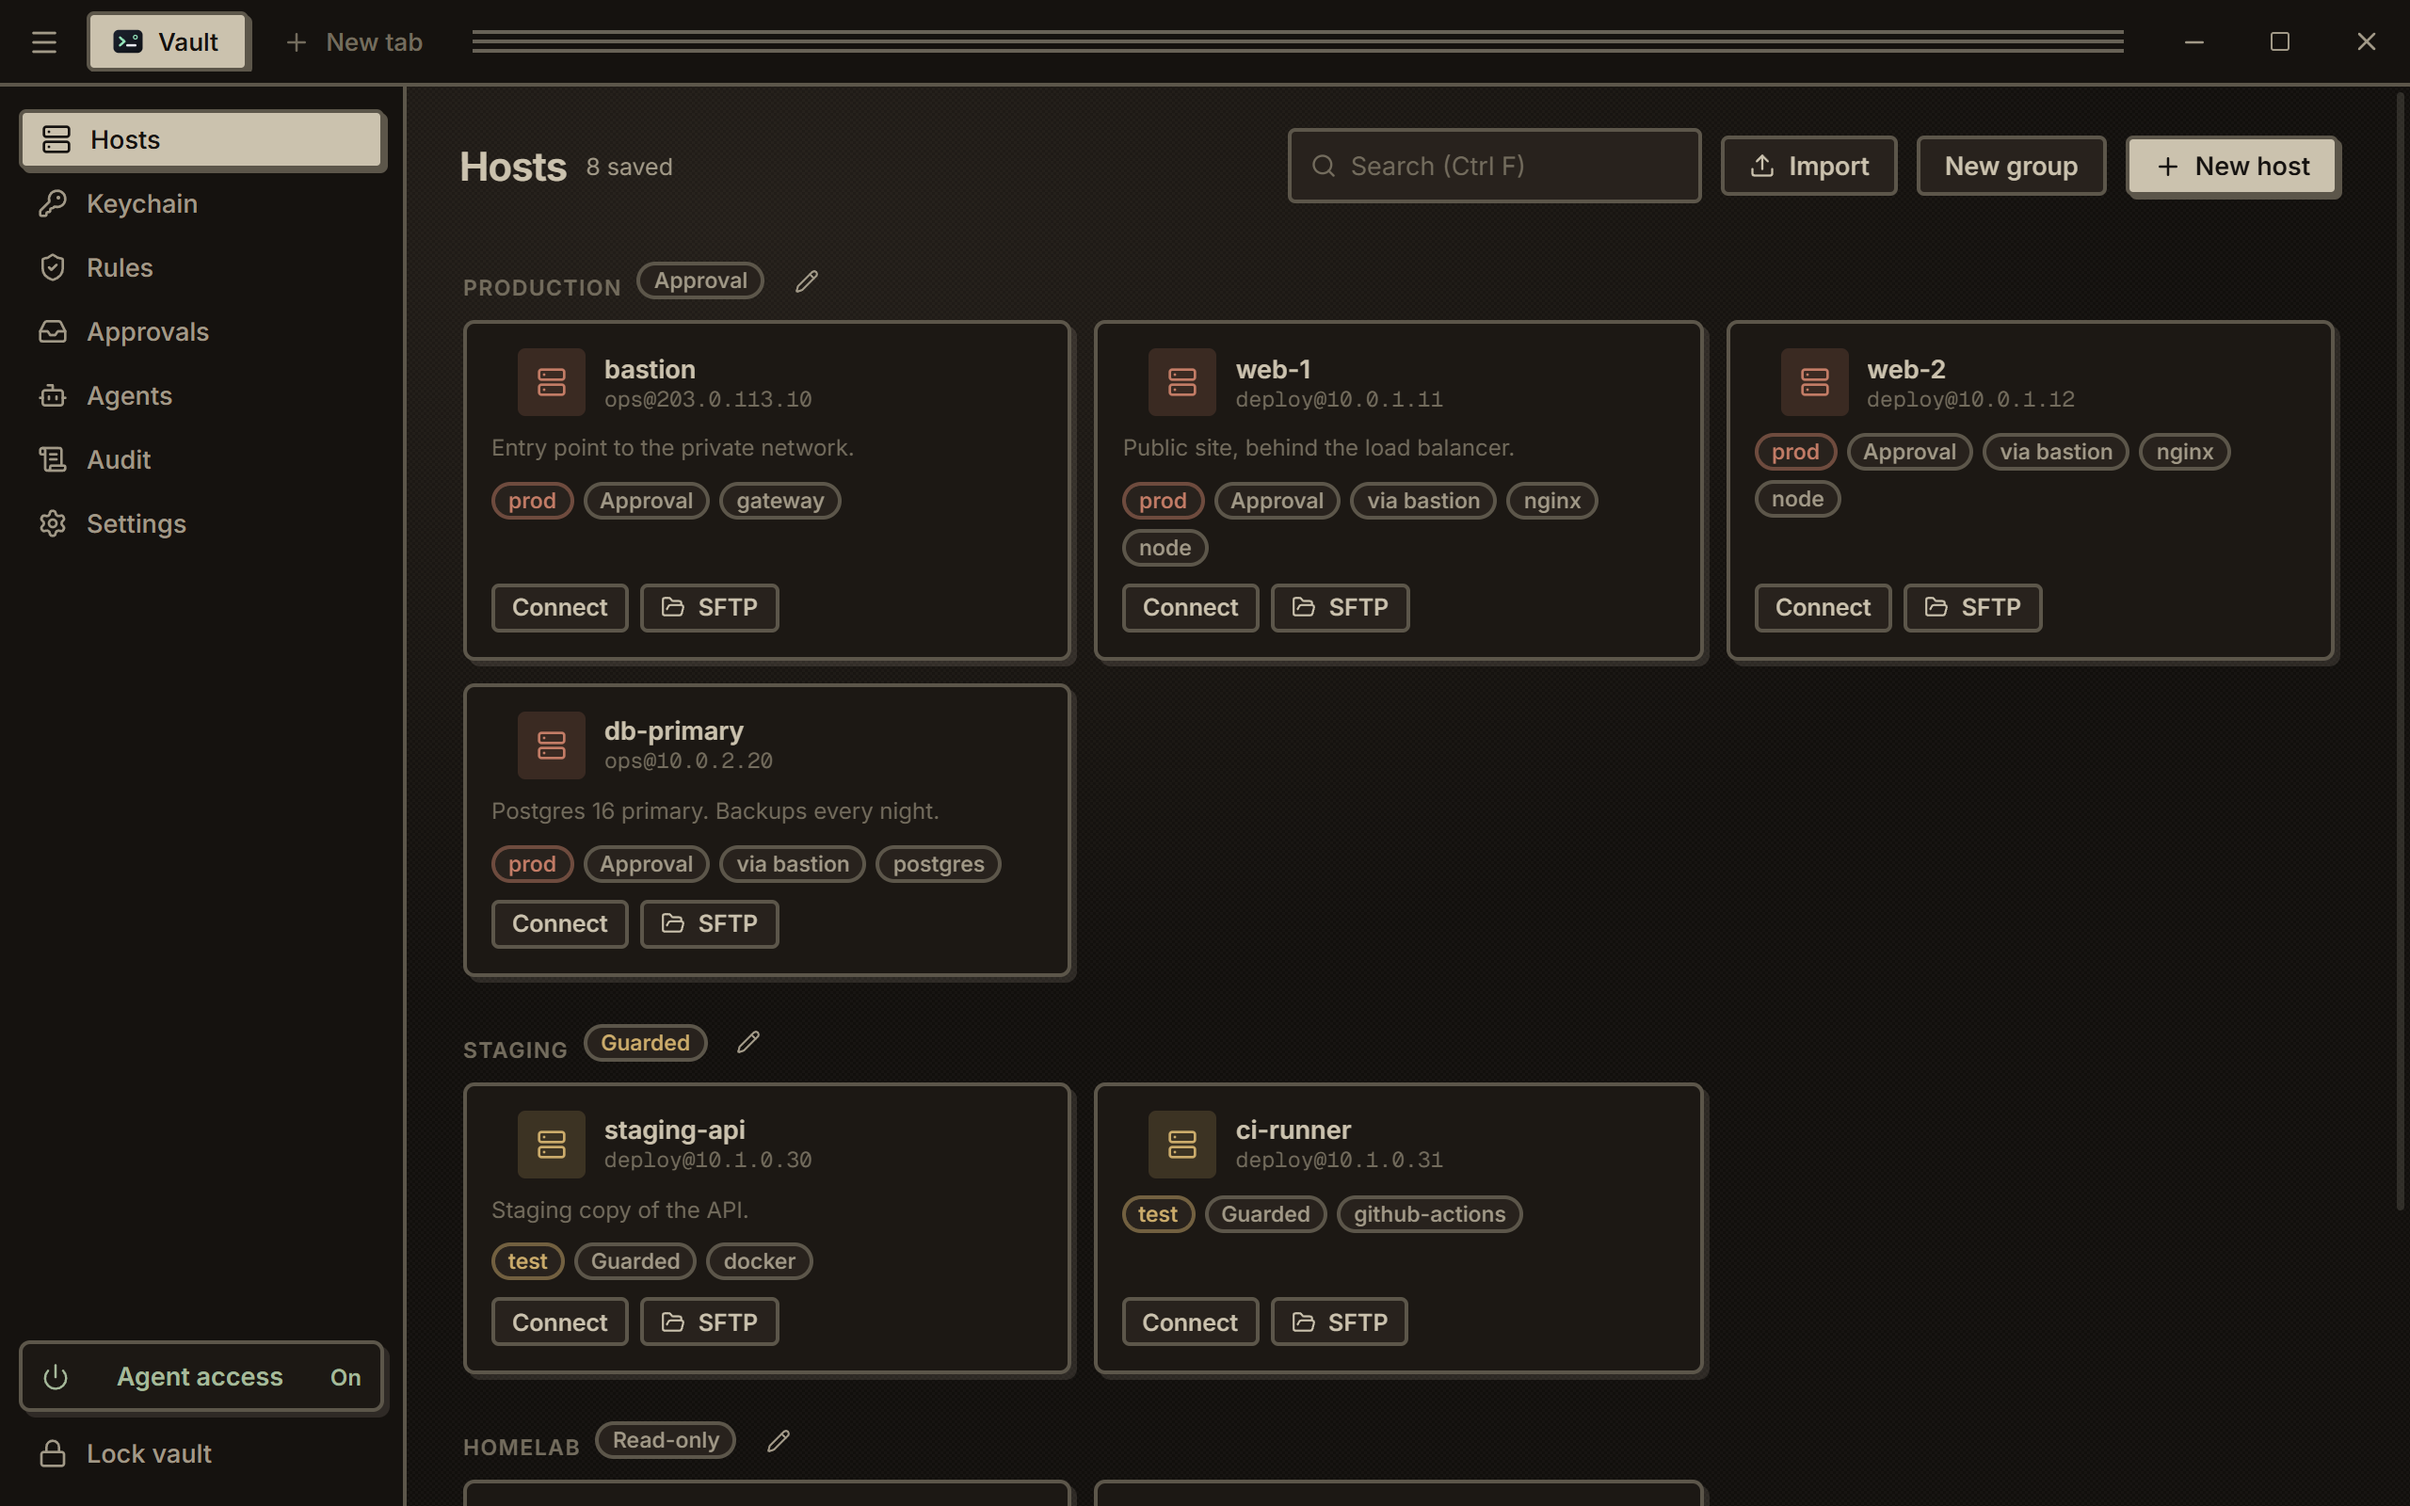
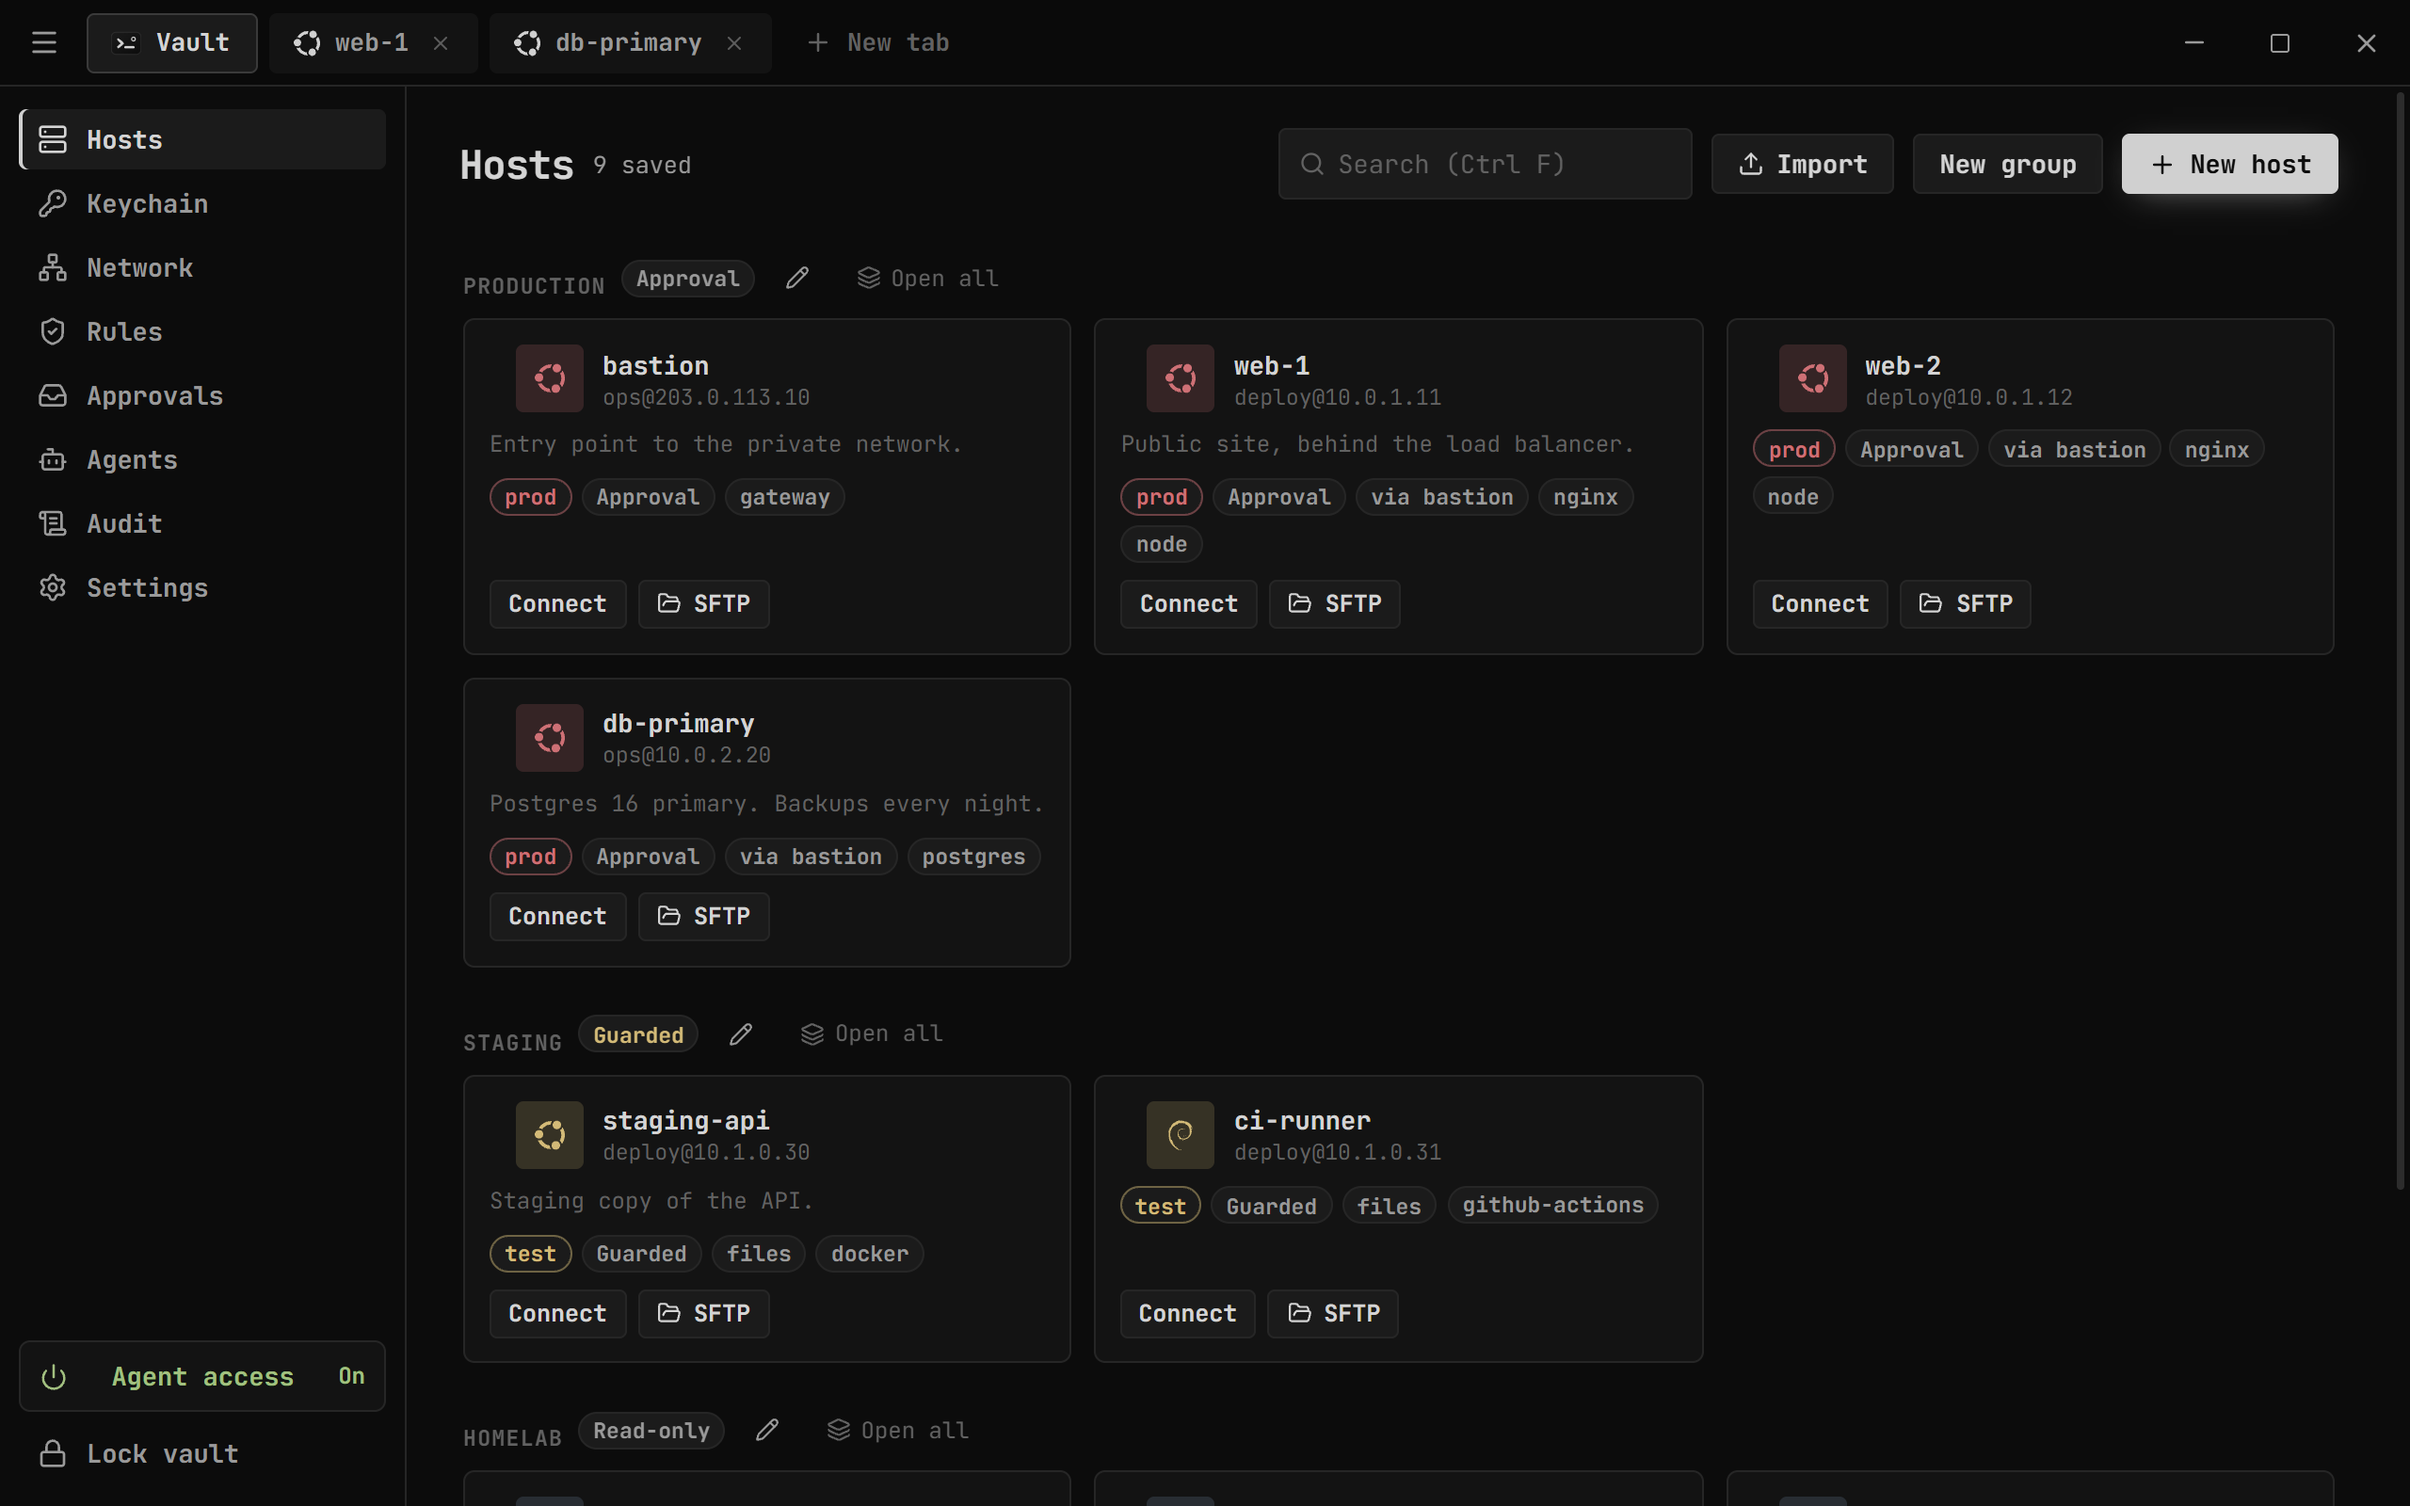
v2.24.2: el resaltado de sintaxis sigue prendido al armar un mosaico; README con captura y demo nuevas
- El resaltado prendido desde el clic derecho de la pestaña se perdia al sumar otra terminal al mosaico (y al mover un panel o volver a una sola terminal): ahora viaja con el panel
- README: captura con el tema Neovim y demo nueva con datos inventados (contenedores de docker): iconos de sistema, consola serie, sugerencias en gris, resaltado, colores por host, Approvals en el mosaico, aprobar y rechazar con nota, descarga del agente con secretos enmascarados y auditoria filtrada
- v2.24.2

diff --git a/apps/desktop/src/lib/tiles.svelte.ts b/apps/desktop/src/lib/tiles.svelte.ts
@@ -123,6 +123,8 @@ function tile(t: TermTab) {
     sid: t.sid,
     connecting: t.connecting,
     approvals: t.approvals,
+    // El resaltado prendido desde la pestaña sigue en su panel.
+    highlight: t.highlight,
     // El mismo bloque de TilePane sigue dibujandola: no se desmonta.
     slot: t.slot,
   };
@@ -134,7 +136,7 @@ function tile(t: TermTab) {
 /** Un panel nuevo que se queda con la terminal de `m` (la misma, viva). Si `m` no tiene
  *  terminal en esta ventana, retoma su sesion desde el backend. */
 async function successor(m: TermTab): Promise<TermTab> {
-  const next: TermTab = { key: newKey(), host: m.host, local: m.local, cwd: m.cwd, title: m.title, alive: m.alive, sid: m.sid };
+  const next: TermTab = { key: newKey(), host: m.host, local: m.local, cwd: m.cwd, title: m.title, alive: m.alive, sid: m.sid, highlight: m.highlight };
   m.moving = true;
   // Las aprobaciones no tienen sesion: alcanza con un panel nuevo.
   if (m.approvals) return { ...next, approvals: true, sid: undefined, alive: true };
@@ -269,6 +271,7 @@ function untile(t: TermTab, m: TermTab) {
   t.error = m.error;
   t.failedAt = m.failedAt;
   t.approvals = m.approvals;
+  t.highlight = m.highlight;
   t.members = undefined;
   t.layout = undefined;
   t.focus = undefined;

diff --git a/README.md b/README.md
@@ -12,11 +12,11 @@
 A Termius-style SSH manager for Windows that also gives Claude Code access without handing it any
 credential. It sits in the tray and is lightweight with the window closed.
 
-![Ethereon with the Poolsuite FM theme, Monochrome palette](docs/screenshot.png)
+![Ethereon with the Neovim theme](docs/screenshot.png)
 
-![Demo: unlock, open terminals through the bastion, tile them, approve an agent command, audit, rules and agents](docs/demo.gif)
+![Demo: hosts with their system icons and a serial console, a terminal through the bastion with gray suggestions and syntax highlighting, per-host colors, a mosaic with Approvals beside the terminals, approving and rejecting agent commands, and the audit](docs/demo.gif)
 
-<sub>The demo uses made-up data: no host, IP or credential is real.</sub>
+<sub>The demo uses made-up data (Docker containers): no host, IP or credential is real.</sub>
 
 - **Encrypted vault:** passwords, private keys (with passphrase), certificates, sudo passwords
   and tokens. AES-256-GCM with a key derived from the master password (Argon2id). Locks itself.
